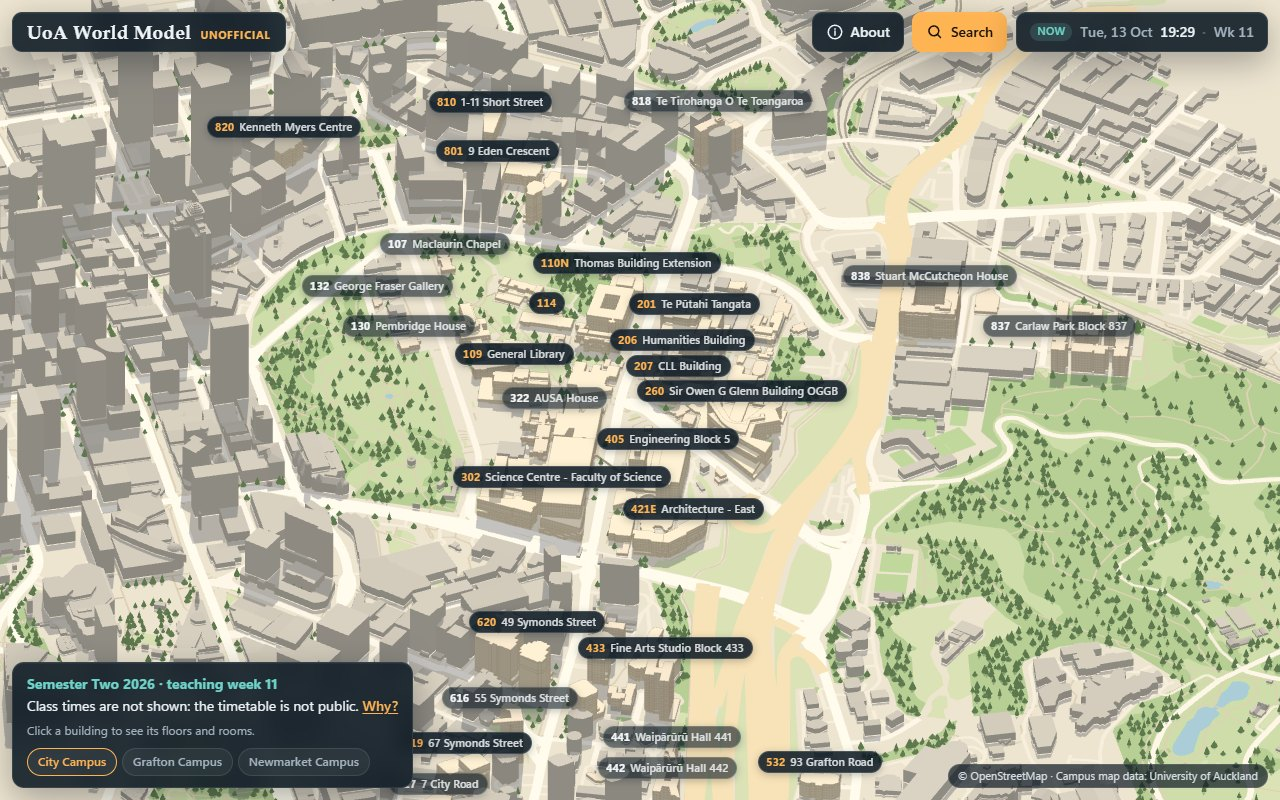
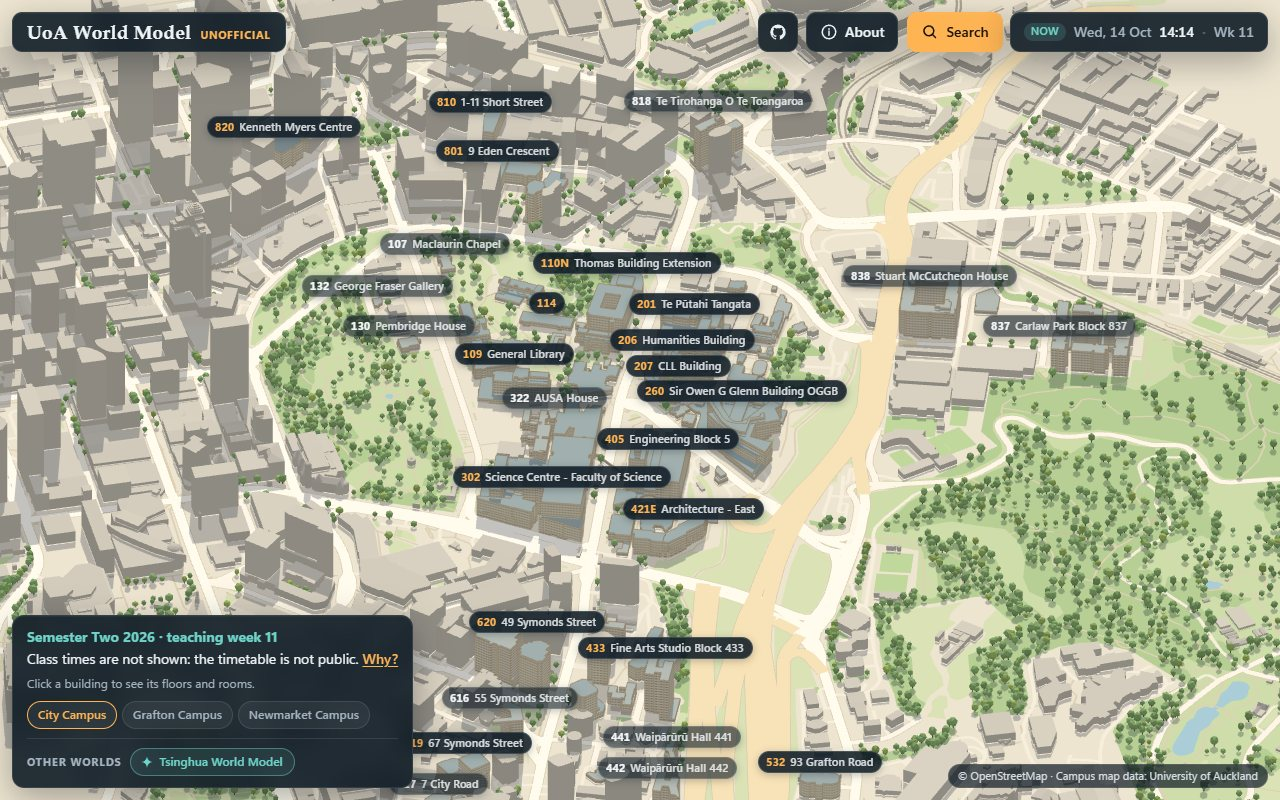
Give trees a crown and a trunk, and streets an edge; retake the README pictures
Every tree was the same dark cone and a street a pale band with no edge.
A tree is now a faceted crown on a trunk, sized, turned and shaded by rule
from one fixed sequence; phones leave the trunks out. Streets, main roads and
the motorway get a darker strip under the carriageway as an edge.

The README's three screenshots are retaken from this build, which has the
roof colour, merged floors, roof rims and storeys of the four changes before
it.

Claude-Session: https://claude.ai/code/session_019PXYauNdE27cxXuBzu7uHR

diff --git a/src/scene/CampusScene.ts b/src/scene/CampusScene.ts
@@ -4,12 +4,13 @@ import {
   AmbientLight,
   BufferGeometry,
   CanvasTexture,
-  ConeGeometry,
+  Color,
   DirectionalLight,
   EdgesGeometry,
   Float32BufferAttribute,
   Group,
   HemisphereLight,
+  IcosahedronGeometry,
   InstancedMesh,
   LineBasicMaterial,
   LineLoop,
@@ -77,6 +78,9 @@ const CAMERA_DISTANCE = 3200;
 const ROAD_WIDTH = { motorway: 15, major: 11, street: 7.5, service: 4.2, path: 2.2, steps: 2.2 } as const;
 const ROAD_Y = { path: 0.12, steps: 0.12, service: 0.14, street: 0.16, major: 0.18, motorway: 0.2 } as const;
 const AREA_Y = { park: 0.02, grass: 0.04, wood: 0.06, pitch: 0.08, water: 0.1 } as const;
+/** Street edges lie under every carriageway and path, so that a junction stays clean. */
+const ROAD_EDGE_Y = 0.11;
+const ROAD_EDGE_WIDTH = 1.6;
 const SLAB = 0.35;
 const ROOM_HEIGHT = 1.5;
 /** Metres between window centres on University buildings. A drawing convention, like the storey height. */
@@ -128,7 +132,7 @@ export class CampusScene {
   private detailGroup = new Group();
   private contextMaterials: { mat: MeshLambertMaterial; key: (p: Palette) => number }[] = [];
   private contextBuildings?: Mesh;
-  private trees?: InstancedMesh;
+  private trees?: Group;
   private wallTexture: CanvasTexture;
   private glowTexture: CanvasTexture;
 
@@ -340,6 +344,11 @@ export class CampusScene {
       for (const a of ctx.areas) if (a.k === k) mb.flat(a.p, AREA_Y[k]);
       if (mb.vertexCount) add(mb.build(), (p) => p.area[k]);
     }
+    {
+      const mb = new MeshBuilder();
+      for (const r of ctx.roads) if (r.k === "street" || r.k === "major" || r.k === "motorway") mb.ribbon(r.p, ROAD_WIDTH[r.k] + ROAD_EDGE_WIDTH, ROAD_EDGE_Y);
+      if (mb.vertexCount) add(mb.build(), (p) => p.roadEdge);
+    }
     for (const k of ["path", "steps", "service", "street", "major", "motorway"] as const) {
       const mb = new MeshBuilder();
       for (const r of ctx.roads) if (r.k === k) mb.ribbon(r.p, ROAD_WIDTH[k], ROAD_Y[k]);
@@ -401,26 +410,49 @@ export class CampusScene {
       }
     }
     if (!pts.length) return;
-    const geom = new ConeGeometry(1, 1, 6);
-    geom.translate(0, 0.5, 0);
-    const mat = new MeshLambertMaterial({ color: this.palette.tree, flatShading: true });
-    const mesh = new InstancedMesh(geom, mat, pts.length);
+    // A crown on a trunk, one unit tall and one wide before it is sized. The position of a mapped
+    // tree is OpenStreetMap's; its size, shape and shade are drawn by rule, since nothing is known
+    // of its kind. A cut gem of twenty faces reads as a crown at campus scale and costs little.
+    const crownGeometry = new IcosahedronGeometry(0.5, 0);
+    crownGeometry.scale(1, 0.84, 1);
+    crownGeometry.translate(0, 0.6, 0);
+    const crownMaterial = new MeshLambertMaterial({ color: this.palette.tree, flatShading: true });
+    const crowns = new InstancedMesh(crownGeometry, crownMaterial, pts.length);
+    // Phones leave the trunks out: under a crown they are a few pixels at most.
+    const trunkGeometry = new CylinderGeometry(0.05, 0.07, 0.4, 5);
+    trunkGeometry.translate(0, 0.2, 0);
+    const trunkMaterial = new MeshLambertMaterial({ color: lerpColour(this.palette.tree, 0x5b4a3a, 0.75) });
+    const trunks = this.opts.lite ? undefined : new InstancedMesh(trunkGeometry, trunkMaterial, pts.length);
     const m = new Matrix4();
-    const size = mulberry32(99);
+    const turn = new Matrix4();
+    const shade = new Color();
+    const vary = mulberry32(99);
     pts.forEach(([x, y], i) => {
-      const r = 2.2 + size() * 2.2;
-      const h = 5 + size() * 6;
-      m.makeScale(r, h, r);
+      const width = 5.5 + vary() * 5;
+      const height = width * (0.95 + vary() * 0.6);
+      m.makeScale(width, height, width);
+      m.multiply(turn.makeRotationY(vary() * Math.PI * 2));
       m.setPosition(x, 0, -y);
-      mesh.setMatrixAt(i, m);
+      crowns.setMatrixAt(i, m);
+      trunks?.setMatrixAt(i, m);
+      // Lighter and darker greens, and now and then one turned towards yellow.
+      const light = 0.84 + vary() * 0.34;
+      const yellow = vary() < 0.14 ? 0.1 + vary() * 0.14 : 0;
+      crowns.setColorAt(i, shade.setRGB(light * (1 + yellow * 1.6), light * (1 + yellow * 0.5), light * (1 - yellow * 1.2)));
     });
-    mesh.castShadow = !this.opts.lite;
-    mesh.receiveShadow = false;
-    mesh.userData.noPick = true;
-    mesh.matrixAutoUpdate = false;
-    this.trees = mesh;
-    this.contextGroup.add(mesh);
-    this.contextMaterials.push({ mat, key: (p) => p.tree });
+    const group = new Group();
+    for (const mesh of trunks ? [crowns, trunks] : [crowns]) {
+      mesh.castShadow = !this.opts.lite && mesh === crowns;
+      mesh.receiveShadow = false;
+      mesh.userData.noPick = true;
+      group.add(mesh);
+    }
+    group.userData.noPick = true;
+    group.matrixAutoUpdate = false;
+    this.trees = group;
+    this.contextGroup.add(group);
+    this.contextMaterials.push({ mat: crownMaterial, key: (p) => p.tree });
+    this.contextMaterials.push({ mat: trunkMaterial, key: (p) => lerpColour(p.tree, 0x5b4a3a, 0.75) });
   }
 
   /**

diff --git a/src/scene/palette.ts b/src/scene/palette.ts
@@ -7,6 +7,8 @@ export interface Palette {
   ground: number;
   fog: number;
   road: Record<RoadClass, number>;
+  /** The edge of a street: a strip a little wider than the carriageway, under it. */
+  roadEdge: number;
   rail: number;
   area: Record<AreaClass, number>;
   tree: number;
@@ -41,6 +43,7 @@ export const DAY: Palette = {
   ground: 0xe9e5da,
   fog: 0xdfe8ec,
   road: { motorway: 0xf2e2bf, major: 0xfdfcf8, street: 0xf8f6f0, service: 0xf1eee5, path: 0xd9d1bd, steps: 0xc9bfa8 },
+  roadEdge: 0xd3cab6,
   rail: 0xa9a59b,
   area: { park: 0xc9ddb0, grass: 0xd6e2be, wood: 0xb3cf9b, pitch: 0xbcd8a2, water: 0xa6cde0 },
   tree: 0x86ab72,
@@ -71,6 +74,7 @@ export const NIGHT: Palette = {
   ground: 0x1a2735,
   fog: 0x0e1824,
   road: { motorway: 0x4a4636, major: 0x34475a, street: 0x2e4052, service: 0x283847, path: 0x33414f, steps: 0x394755 },
+  roadEdge: 0x16222f,
   rail: 0x33414f,
   area: { park: 0x1d3f2d, grass: 0x21432f, wood: 0x173524, pitch: 0x244a33, water: 0x16364d },
   tree: 0x2a5c40,
@@ -137,6 +141,7 @@ export function mixPalette(a: Palette, b: Palette, t: number): Palette {
     ground: c(a.ground, b.ground),
     fog: c(a.fog, b.fog),
     road: lerpRecord(a.road, b.road, t),
+    roadEdge: c(a.roadEdge, b.roadEdge),
     rail: c(a.rail, b.rail),
     area: lerpRecord(a.area, b.area, t),
     tree: c(a.tree, b.tree),
